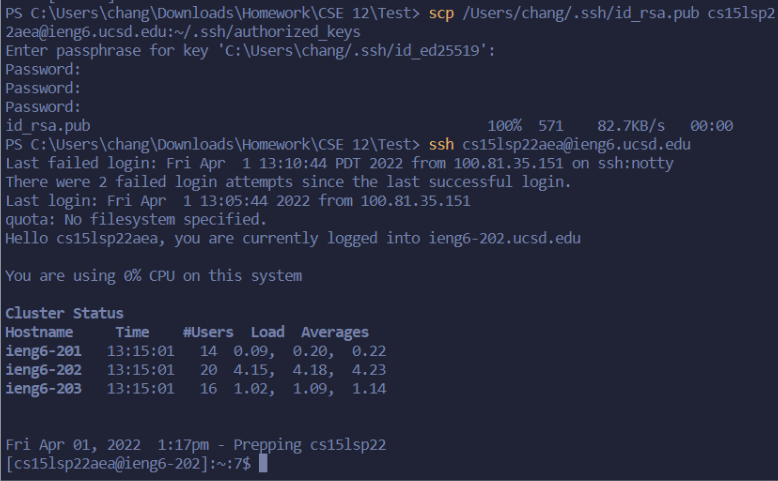
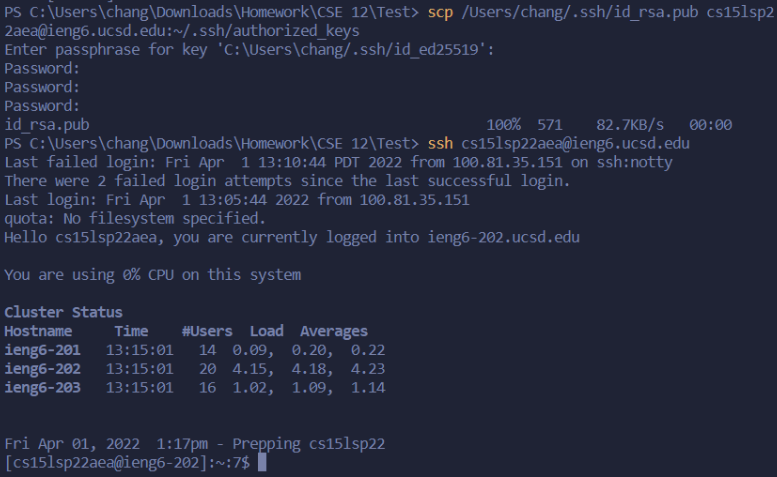
Updated picture in week2LabReport

diff --git a/week2LabReport.md b/week2LabReport.md
@@ -106,9 +106,11 @@
 
 * Finally, we can now run the `ssh` command one last time, and if everything has been done correctly, you'll no longer be asked for your password.
 
-    > Here's an example:
-    <br>
-    ![Image](Images/sshKeyGenP1.png)
+    Here's an example:
+
+    ![Image](Images/sshKeyGenP2.png)
+
+    > Notice how it doesn't ask for the password after running `ssh`
 
 &nbsp;
 
